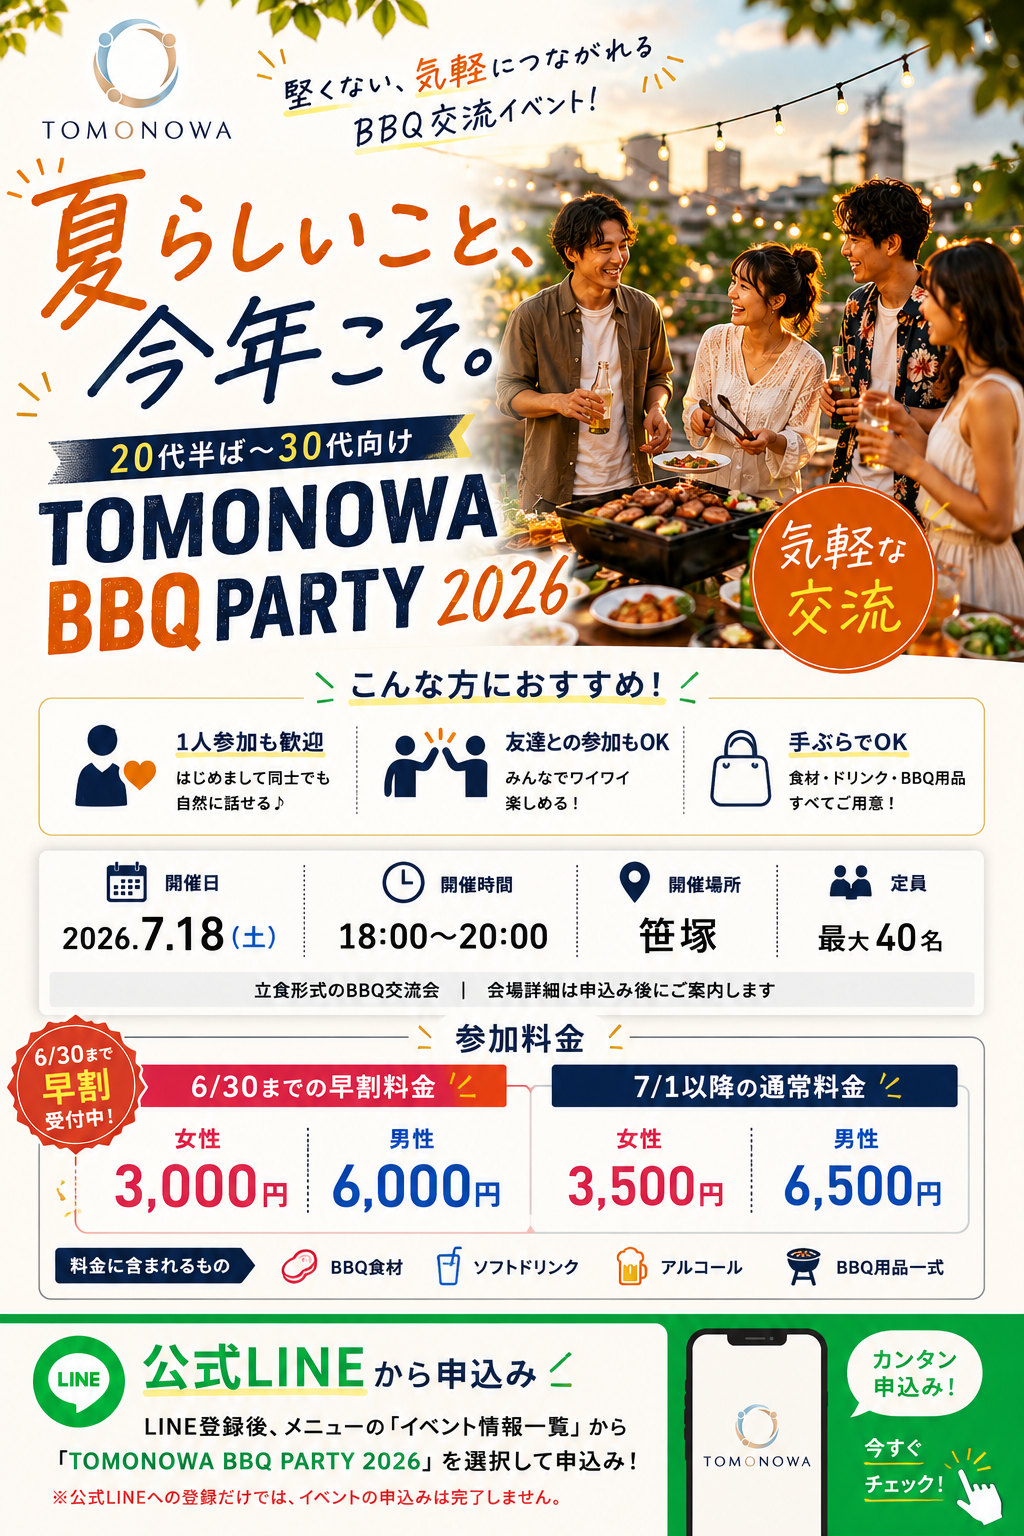
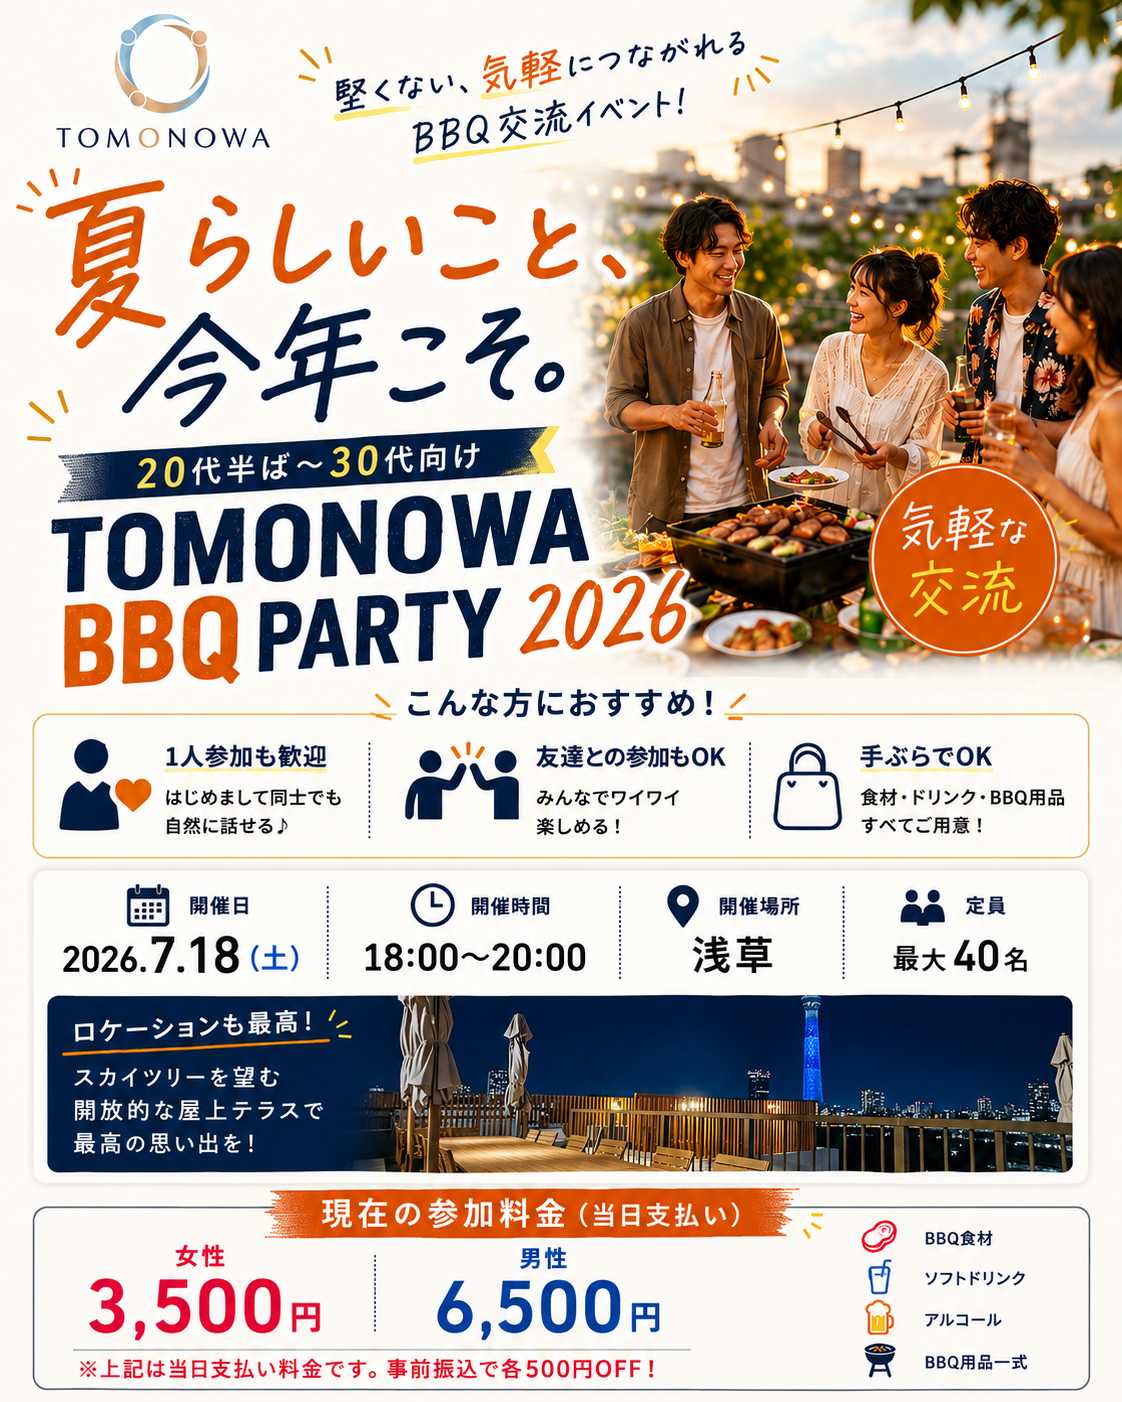
Add files via upload

diff --git a/event/index.html b/event/index.html
@@ -502,7 +502,7 @@
             <div class="fact"><span>イベント</span><b>TOMONOWA BBQ PARTY 2026</b></div>
             <div class="fact"><span>開催日</span><b>2026年7月18日（土）</b></div>
             <div class="fact"><span>時間</span><b>18:00〜20:00</b></div>
-            <div class="fact"><span>場所</span><b>最寄駅：笹塚駅<br>会場詳細はお申し込み後にご案内します</b></div>
+            <div class="fact"><span>場所</span><b>最寄駅：浅草駅<br>会場詳細はお申し込み後にご案内します</b></div>
             <div class="fact"><span>定員</span><b>最大40名</b></div>
             <div class="fact"><span>料金</span><b>6/30まで早割：女性 3,000円 / 男性 6,000円<br>7/1以降通常：女性 3,500円 / 男性 6,500円</b></div>
             <div class="fact"><span>内容</span><b>立食形式のBBQ交流会。食材・ドリンク・BBQ用品はこちらで用意します。</b></div>
@@ -555,13 +555,13 @@
       id: "tomonowa-bbq-2026-07-18",
       title: "TOMONOWA BBQ PARTY 2026",
       date: "2026年7月18日（土）18:00〜20:00",
-      venue: "最寄駅：笹塚駅／会場詳細はお申し込み後にご案内します",
+      venue: "最寄駅：浅草駅／会場詳細はお申し込み後にご案内します",
       capacity: 40
     };
 
     function openForm() {
       dialog.innerHTML = `<h2>TOMONOWA BBQ PARTY 2026<br>参加申し込み</h2>
-        <div class="info"><b>${EVENT.date}</b><br>場所：最寄駅 笹塚駅<br>6/30まで早割：女性 3,000円 / 男性 6,000円<br>7/1以降通常：女性 3,500円 / 男性 6,500円<br><small>定員が埋まり次第、お申し込み受付を終了します。</small></div>
+        <div class="info"><b>${EVENT.date}</b><br>場所：最寄駅 浅草駅<br>6/30まで早割：女性 3,000円 / 男性 6,000円<br>7/1以降通常：女性 3,500円 / 男性 6,500円<br><small>定員が埋まり次第、お申し込み受付を終了します。</small></div>
         <form class="form" onsubmit="apply(event)" novalidate>
           <div class="field full"><label>お名前 *</label><input name="name"></div>
           <div class="field"><label>メールアドレス *</label><input name="email" type="email"></div>
